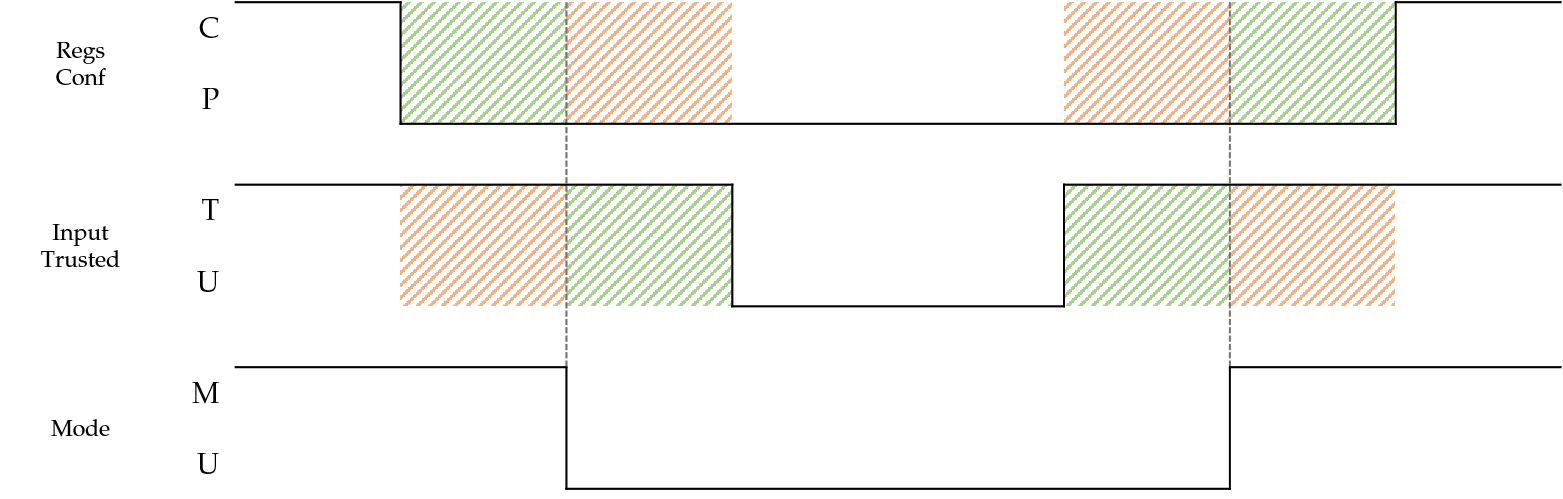
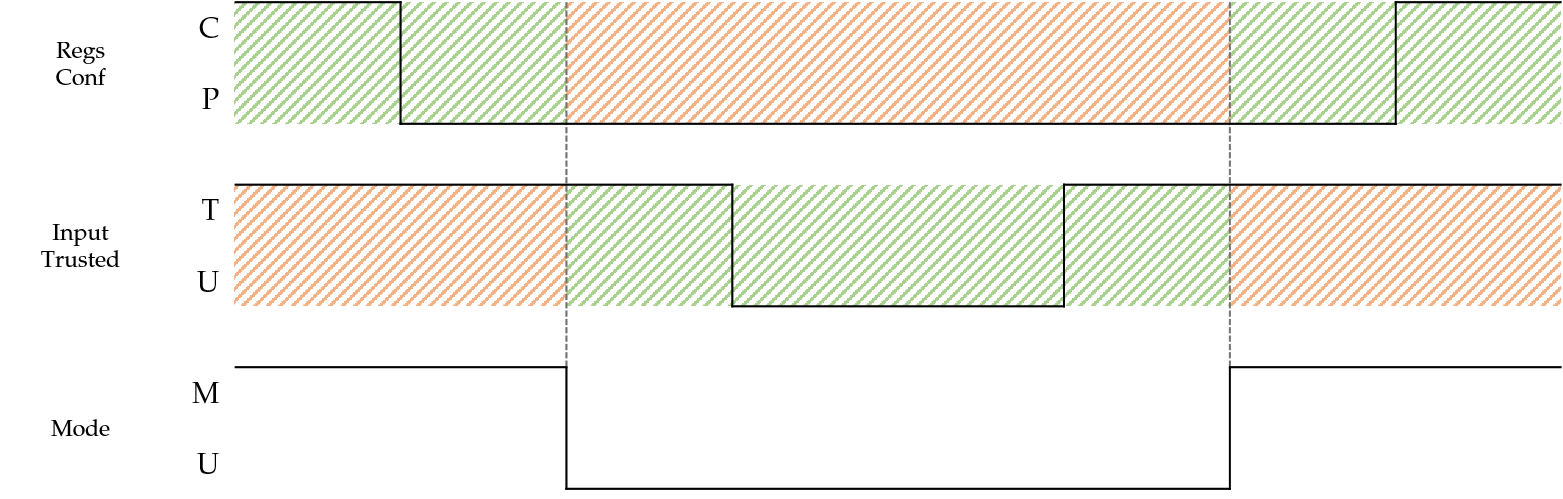
thesis: Add summary of information flow properties

diff --git a/thesis/sections/model.tex b/thesis/sections/model.tex
@@ -507,9 +507,32 @@ The domain of confidentiality has yet been left out so we will introduce one fin
 
 \section{Summary}
 
-\todo[inline]{Write}
+In this chapter, information flow semantics were given for each instruction of the MINRV8 architecture and it was described how these were implemented in nuXmv.
+It was shown that the to domains of confidentiality and integrity of the information flow policy can be tacked independently where the $ \sqcup $ operation on confidentiality labels is given by the logical disjunction and on integrity labels by the logical conjunction.
 
-\todo{Use graphic}
+Labels of arguments to some instructions that are not used by their respective information flow semantics were used to constitute the first information flow properties regarding integrity of instructions.
+Additionally, the \smv{priv} variable was considered when defining a property touching the confidentiality of data.
+In the end, all variables of the main module and all labels of arguments to instructions were considered such that they either lead to an information flow property or are used to determine information flow in the model.
+
+The properties that were finally established are:
+\begin{enumerate}[label=\Roman*.]
+    \item \smv{MEMORY_OP_INTEGRITY}; whenever a memory operation is performed in privileged mode, the target address must be integrous.
+    \item \smv{CSR_INTEGRTY}; whenever a \gls{csr} is written, the value it is written with must be integrous.
+    \item \smv{NO_LEAK}; whenever the architecture is in user mode, there is no confidential data in any register.
+\end{enumerate}
+
 \begin{figure}
     \includegraphics[width=\textwidth]{figures/properties.png}
+    \caption{Visualization of the Information Flow Properties}
+    \label{fig:ifc-properties}
 \end{figure}
+
+These properties are visualized in figure \ref{fig:ifc-properties} inspired by digital timing diagrams.
+The last row visualizes the privilege mode of the architecture over the course of executing a sequence of instructions.
+There are two points in which the privilege mode changes: first, it goes from machine- to user-mode, then it goes back from user- to machine-mode.
+The \smv{NO_LEAK} (\ref{itm:prop-no-leak}) mandates that the confidentiality labels of the registers always resemble the first row in the diagram, i.e. they are only high when the current privilege mode also is high.
+The green areas highlight where the registers could contain confidential data, i.e. the confidentiality  labels \textit{could} be high, but the orange areas highlight the point in time where the confidentiality labels \textit{must} be low.
+The properties \smv{MEMORY_OP_INTEGRITY} (\ref{itm:prop-mem-i}) and \smv{CSR_INTEGRITY} (\ref{itm:prop-csr-i}) follow the same visualization.
+In the second row of the figure, it is visualized whether inputs to memory or \gls{csr} related instructions are integrous.
+The integrity labels to input of these instructions must be high, whenever the architecture is in machine-mode and can be low if the architecture is on user-mode.
+Analogously, the green areas mark where the integrity labels \textit{could} be low but the orange areas indicate where it \textit{must} be high.
